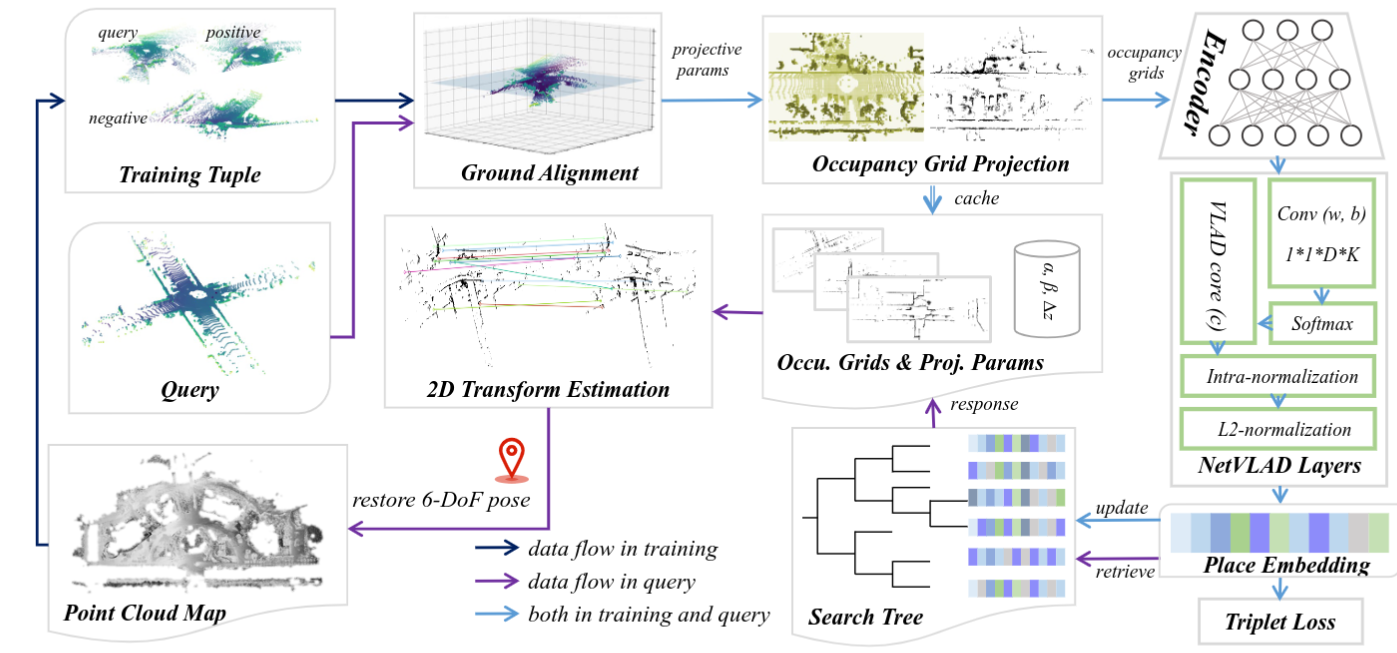
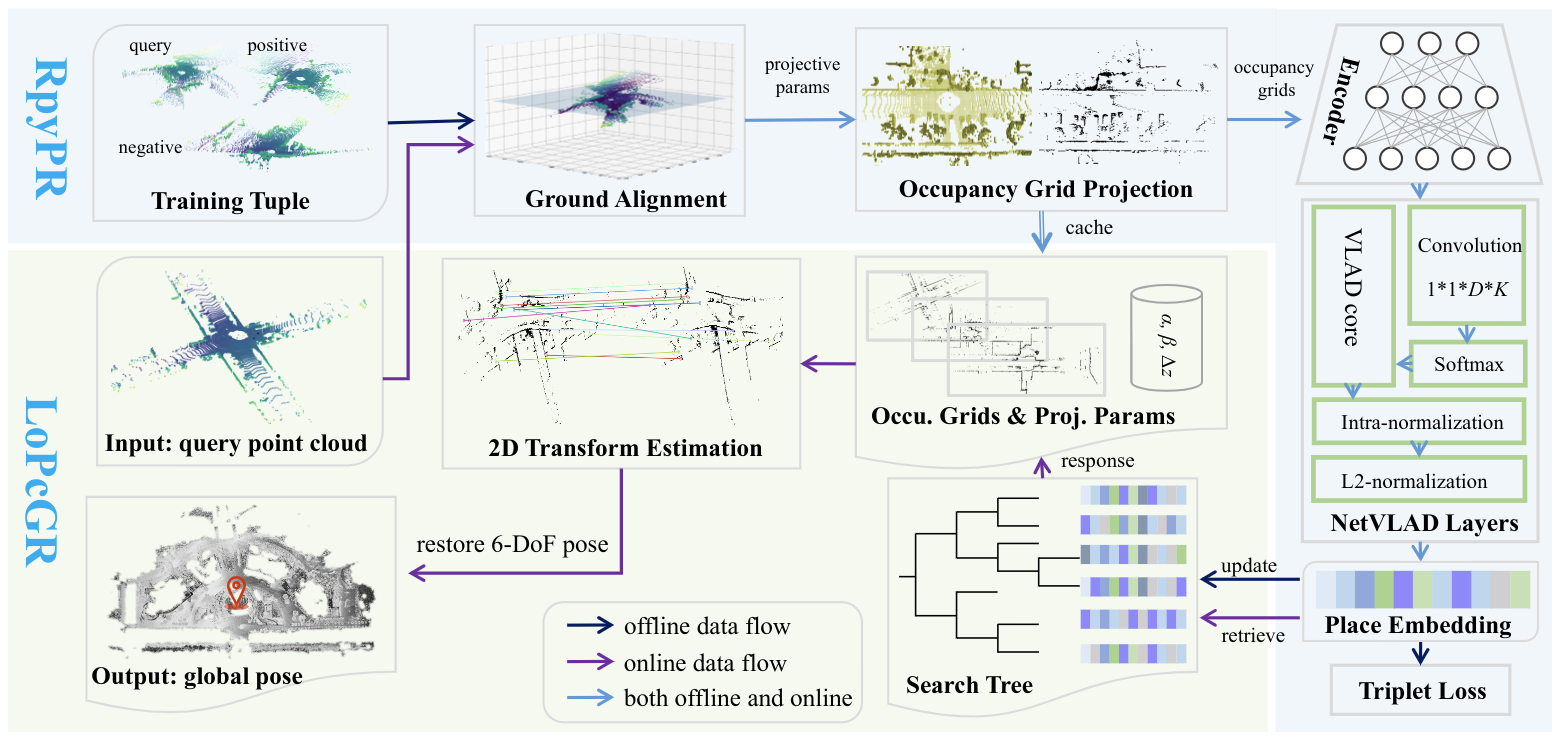
update

Changed region(s): [[0.0, 0.0, 1.0, 1.0], [0.3078, 0.2144, 0.4925, 0.3063], [0.3078, 0.0306, 0.3694, 0.0613]]

diff --git a/GLoc.html b/GLoc.html
@@ -591,6 +591,6 @@ header, .context-menu, .megamenu-content, footer{
 </style><title>GLoc</title>
 </head>
 <body class='typora-export'><div class='typora-export-content'>
-<div id='write'  class=''><h3 id='global-localization-in-large-scale-point-clouds-via-roll-pitch-yaw-invariant-place-recognition-and-low-overlap-global-registration'><span>Global Localization in Large-scale Point Clouds via Roll-pitch-yaw Invariant Place Recognition and Low-overlap Global Registration</span></h3><p><span>Zhong Wang</span><sup><span>1</span></sup><span>, Lin Zhang</span><sup><span>1</span></sup><span>, Shengjie Zhao</span><sup><span>1</span></sup><span>, and Yicong Zhou</span><sup><span>2</span></sup></p><p><sup><span>1</span></sup><span>School of Software Engineering, Tongji University, Shanghai, China</span></p><p><sup><span>2</span></sup><span>Department of Computer and Information Science, University of Macau, China</span></p><h4 id='introduction'><span>Introduction</span></h4><blockquote><p><span>This is the website for our paper &quot;Global Localization in Large-scale Point Clouds via Roll-pitch-yaw Invariant Place Recognition and Low-overlap Global Registration&quot;.</span></p></blockquote><p><img src="framework.png" referrerpolicy="no-referrer" alt="Framework"></p><center style="color:#C0C0C0;text-decoration:underline">Figure 1. (a) Overview of our approach. In offline training, sampled query-positive-negative triples are aligned to the ground to obtain projection parameters. With these parameters, 2D occupation grids are projected from the 3D occupancy voxels. Such 2D grids are further fed into a deep encoder and NetVLAD layers to aggregate place embeddings, which are used to update the search tree and network under the supervision of triplet loss. In the online localization, the query obtains place embedding as the triples in training and employs it to retrieve the response and the corresponding occupancy grids from the database. At last, by estimating the transformation between the 2D grids and combining the projection parameters, the complete 6-DoF pose can be restored.</center><h4 id='source-codes'><span>Source Codes</span></h4><p><a href='scan-to-scan.zip'><span>GLoc Codes</span></a></p><p>&nbsp;</p></div></div>
+<div id='write'  class=''><h3 id='global-localization-in-large-scale-point-clouds-via-roll-pitch-yaw-invariant-place-recognition-and-low-overlap-global-registration'><span>Global Localization in Large-scale Point Clouds via Roll-pitch-yaw Invariant Place Recognition and Low-overlap Global Registration</span></h3><p><span>Zhong Wang</span><sup><span>1</span></sup><span>, Lin Zhang</span><sup><span>1</span></sup><span>, Shengjie Zhao</span><sup><span>1</span></sup><span>, and Yicong Zhou</span><sup><span>2</span></sup></p><p><sup><span>1</span></sup><span>School of Software Engineering, Tongji University, Shanghai, China</span></p><p><sup><span>2</span></sup><span>Department of Computer and Information Science, University of Macau, China</span></p><hr /><h4 id='introduction'><span>Introduction</span></h4><blockquote><p><span>This is the website for our paper &quot;Global Localization in Large-scale Point Clouds via Roll-pitch-yaw Invariant Place Recognition and Low-overlap Global Registration&quot;.</span></p></blockquote><p><img src="framework.png" referrerpolicy="no-referrer" alt="Framework"></p><center style="color:#C0C0C0;text-decoration:underline">Figure 1. Overview of our framework. In the offline RpyPR training phase, sampled query-positive-negative tuples are aligned to the ground to derive projection parameters. With these parameters, 2D occupation grids are projected from the 3D occupancy voxels. Such 2D grids are subsequently fed into a deep encoder and NetVLAD layers to aggregate place embeddings, which are used to update the search tree and network under the supervision of the triplet loss. During online global localization (RpyPR recognition and LoPcGR registration), the query obtains its place embedding and employs it to retrieve the response and the corresponding occupancy grids from the gallery. At last, by estimating the transformation between the 2D grids and combining the projection parameters, the full 6-DoF pose can be determined.</center><hr /><h4 id='additional-evaluations-on-generalization-ability'><span>Additional Evaluations on Generalization Ability</span></h4><p><span>To further illustrate the strong generalization ability of our proposed RpyPR, we use the model trained on the KITTI dataset to make a test on the NuScenes dataset for autonomous driving. The obtained results are shown in Table 1. As can be seen, the proposed RpyPR shows good generalization on new data sequences, while other similar learning-based schemes only GeoTransformer [3] performs moderately well, with unsatisfactory results for both PointNetVLAD [1] and LPD-Net [2].</span></p><center style="color:#C0C0C0;text-decoration:underline">Table 1. Generalization ability comparison. The recall rates below of evaluations on NuScenes are produced by the models trained on KITTI.</center><figure><table><thead><tr><th style='text-align:center;' >&nbsp;</th><th style='text-align:center;' ><span>Top-1</span></th><th style='text-align:center;' ><span>Top-5</span></th><th style='text-align:center;' ><span>Top-10</span></th><th style='text-align:center;' ><span>Top-20</span></th></tr></thead><tbody><tr><td style='text-align:center;' ><span>PoinNetVLAD [1]</span></td><td style='text-align:center;' ><span>0.2293</span></td><td style='text-align:center;' ><span>0.3997</span></td><td style='text-align:center;' ><span>0.4867</span></td><td style='text-align:center;' ><span>0.5654</span></td></tr><tr><td style='text-align:center;' ><span>LPD-Net [2]</span></td><td style='text-align:center;' ><span>0.4654</span></td><td style='text-align:center;' ><span>0.6790</span></td><td style='text-align:center;' ><span>0.7591</span></td><td style='text-align:center;' ><span>0.8357</span></td></tr><tr><td style='text-align:center;' ><span>GeoTransformer [3]</span></td><td style='text-align:center;' ><span>0.6934</span></td><td style='text-align:center;' ><span>0.8268</span></td><td style='text-align:center;' ><span>0.8843</span></td><td style='text-align:center;' ><span>0.9185</span></td></tr><tr><td style='text-align:center;' ><strong><span>RpyPR (ours)</span></strong></td><td style='text-align:center;' ><strong><span>0.9692</span></strong></td><td style='text-align:center;' ><strong><span>0.9911</span></strong></td><td style='text-align:center;' ><strong><span>0.9945</span></strong></td><td style='text-align:center;' ><strong><span>0.9966</span></strong></td></tr></tbody></table></figure><p>&nbsp;</p><hr /><h4 id='source-codes'><span>Source Codes</span></h4><p><a href='scan-to-scan.zip'><span>GLoc Codes</span></a></p><h4 id='references'><span>References</span></h4><p><span>[1] M. A. Uy and G. H. Lee, &quot;PointnetVLAD: Deep point cloud based retrieval for large-scale place recognition,&quot; in Proc. IEEE Conf. Comput. Vis. Patt. Recog., Salt Lake City, USA, Jun. 2018, pp. 4470–4479.</span></p><p><span>[2] Z. Liu, S. Zhou, C. Suo, P. Yin, W. Chen, H. Wang, H. Li, and Y. H. Liu, &quot;LPD-Net: 3D point cloud learning for large-scale place recognition and environment analysis,&quot; in Proc. IEEE/CVF Int. Conf. Comput. Vis., Seoul, Korea, Oct. 2019, pp. 2831–2840.</span></p><p><span>[3] J. Ma, J. Zhang, J. Xu, R. Ai, W. Gu, and X. Chen, &quot;OverlapTransformer: An efficient and yaw-angle-invariant transformer network for LiDAR-based place recognition,&quot; IEEE Robot. Autom. Letters, vol. 7, no. 3, pp. 6958–6965, 2022.</span></p></div></div>
 </body>
 </html>

diff --git a/GLoc.md b/GLoc.md
@@ -6,15 +6,43 @@ Zhong Wang<sup>1</sup>, Lin Zhang<sup>1</sup>, Shengjie Zhao<sup>1</sup>, and Yi
 
 <sup>2</sup>Department of Computer and Information Science, University of Macau, China
 
+---
+
 #### Introduction
 
 >  This is the website for our paper "Global Localization in Large-scale Point Clouds via Roll-pitch-yaw Invariant Place Recognition and Low-overlap Global Registration".
 
 ![Framework](framework.png)
 
-<center style="color:#C0C0C0;text-decoration:underline">Figure 1. (a) Overview of our approach. In offline training, sampled query-positive-negative triples are aligned to the ground to obtain projection parameters. With these parameters, 2D occupation grids are projected from the 3D occupancy voxels. Such 2D grids are further fed into a deep encoder and NetVLAD layers to aggregate place embeddings, which are used to update the search tree and network under the supervision of triplet loss. In the online localization, the query obtains place embedding as the triples in training and employs it to retrieve the response and the corresponding occupancy grids from the database. At last, by estimating the transformation between the 2D grids and combining the projection parameters, the complete 6-DoF pose can be restored.</center>
+<center style="color:#C0C0C0;text-decoration:underline">Figure 1. Overview of our framework. In the offline RpyPR training phase, sampled query-positive-negative tuples are aligned to the ground to derive projection parameters. With these parameters, 2D occupation grids are projected from the 3D occupancy voxels. Such 2D grids are subsequently fed into a deep encoder and NetVLAD layers to aggregate place embeddings, which are used to update the search tree and network under the supervision of the triplet loss. During online global localization (RpyPR recognition and LoPcGR registration), the query obtains its place embedding and employs it to retrieve the response and the corresponding occupancy grids from the gallery. At last, by estimating the transformation between the 2D grids and combining the projection parameters, the full 6-DoF pose can be determined.</center>
+
+---
+
+#### Additional Evaluations on Generalization Ability
+
+To further illustrate the strong generalization ability of our proposed RpyPR, we use the model trained on the KITTI dataset to make a test on the NuScenes dataset for autonomous driving. The obtained results are shown in Table 1. As can be seen, the proposed RpyPR shows good generalization on new data sequences, while other similar learning-based schemes only GeoTransformer [3] performs moderately well, with unsatisfactory results for both PointNetVLAD [1] and LPD-Net [2].
+
+<center style="color:#C0C0C0;text-decoration:underline">Table 1. Generalization ability comparison. The recall rates below of NuScenes are produced by the models trained on KITTI.</center>
+
+|                    |   Top-1    |   Top-5    |   Top-10   |   Top-20   |
+| :----------------: | :--------: | :--------: | :--------: | :--------: |
+|  PoinNetVLAD [1]   |   0.2293   |   0.3997   |   0.4867   |   0.5654   |
+|    LPD-Net [2]     |   0.4654   |   0.6790   |   0.7591   |   0.8357   |
+| GeoTransformer [3] |   0.6934   |   0.8268   |   0.8843   |   0.9185   |
+|  **RpyPR (ours)**  | **0.9692** | **0.9911** | **0.9945** | **0.9966** |
+
+
+
+---
 
 #### Source Codes
 
 [GLoc Codes](scan-to-scan.zip)
 
+#### References
+
+[1] M. A. Uy and G. H. Lee, "PointnetVLAD: Deep point cloud based retrieval for large-scale place recognition," in Proc. IEEE Conf. Comput. Vis. Patt. Recog., Salt Lake City, USA, Jun. 2018, pp. 4470–4479.
+
+[2] Z. Liu, S. Zhou, C. Suo, P. Yin, W. Chen, H. Wang, H. Li, and Y. H. Liu, "LPD-Net: 3D point cloud learning for large-scale place recognition and environment analysis," in Proc. IEEE/CVF Int. Conf. Comput. Vis., Seoul, Korea, Oct. 2019, pp. 2831–2840.
+
+[3] J. Ma, J. Zhang, J. Xu, R. Ai, W. Gu, and X. Chen, "OverlapTransformer: An efficient and yaw-angle-invariant transformer network for LiDAR-based place recognition," IEEE Robot. Autom. Letters, vol. 7, no. 3, pp. 6958–6965, 2022.
